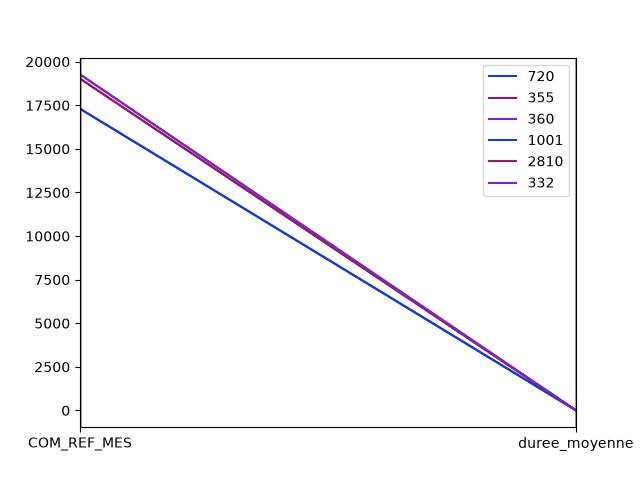
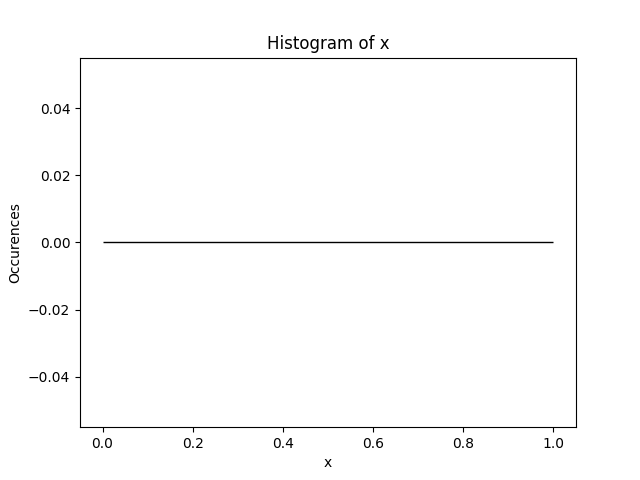
add : documentation, fix : getqueries

diff --git a/pythonScripts/choosenGraph.py b/pythonScripts/choosenGraph.py
@@ -1,3 +1,9 @@
+"""CLI: fetch two SQL query results and draw the requested graph type.
+
+Usage:
+    python choosenGraph.py <query1> <query2> <graph_name> <list_of_graphs>
+"""
+
 import sys
 import os
 current_folder = os.path.dirname(os.path.abspath(__file__))
@@ -15,22 +21,34 @@ from radarChart import draw_radarchart
 from parallelCoordinates import draw_parallel_coordinates
 from scatterPlot import draw_scatterplot
 
+
 def strip_accents(s):
-   return ''.join(c for c in unicodedata.normalize('NFD', s)
-                  if unicodedata.category(c) != 'Mn')
+    """Remove accents from a string (e.g. "étoile" -> "etoile")."""
+    return ''.join(c for c in unicodedata.normalize('NFD', s)
+                   if unicodedata.category(c) != 'Mn')
+
 
 def choose():
-    query1 = sys.argv[1]        
-    query2 = sys.argv[2]        
+    """Read CLI args, query the database, and call the matching graph function.
+
+    Args (from sys.argv): query1, query2 (SQL queries for X1/X2), and
+    graph_name (matched against keywords like "boite", "radar",
+    "scatter", "hist", "reg", "parall" to pick the drawing function).
+
+    Note: DB credentials are hardcoded below — consider moving them
+    to environment variables instead.
+    """
+    query1 = sys.argv[1]
+    query2 = sys.argv[2]
     raw_graph_name = sys.argv[3]
 
     graphName = strip_accents(raw_graph_name).lower().strip()
 
     server = "info-mssql-etd"
-    user = "ETD" 
+    user = "ETD"
     psw = "ETD"
     database = "AquiAlertsTest"
-    
+
     engine = sa.create_engine(f'mssql+pymssql://{user}:{psw}@{server}/{database}')
 
     with engine.connect() as conn:
@@ -51,6 +69,7 @@ def choose():
         draw_parallel_coordinates(X1, X2)
     else:
         print(f"Aucun graphe de ce nom matching: '{raw_graph_name}'", file=sys.stderr)
+
 
 if __name__ == "__main__":
     if len(sys.argv) < 5:

diff --git a/pythonScripts/radarChart.py b/pythonScripts/radarChart.py
@@ -1,24 +1,27 @@
+"""Draws a radar chart comparing two data series and saves to disk."""
+
 import plotly.express as px
 import pandas as pd
 
+
 def draw_radarchart(X1, X2):
+    """Draw a radar chart comparing X1 and X2 and save to img/Graph.png."""
     col_axe = X1.columns[0]
     col_valeurs = X1.columns[1]
 
     df_x1 = pd.DataFrame({
-    'r': X1[col_valeurs],
-    'theta': X1[col_axe],
-    'Nom du modèle': 'Série X1'
+        'r': X1[col_valeurs],
+        'theta': X1[col_axe],
+        'Nom du modèle': 'Série X1'
     })
 
     df_x2 = pd.DataFrame({
         'r': X2[col_valeurs],
         'theta': X2[col_axe],
         'Nom du modèle': 'Série X2'
-        })
+    })
 
-    
     df_total = pd.concat([df_x1, df_x2], ignore_index=True)
-       
+
     fig = px.line_polar(df_total, r='r', theta='theta', color='Nom du modèle', line_close=True)
     fig.write_image('img/Graph.png')

diff --git a/pythonScripts/parallelCoordinates.py b/pythonScripts/parallelCoordinates.py
@@ -1,7 +1,11 @@
+"""Draws a parallel coordinates plot for two data series and saves to disk."""
+
 from pandas.plotting import parallel_coordinates
 import matplotlib.pyplot as plt
 
-def draw_parallel_coordinates(X1,X2):
+
+def draw_parallel_coordinates(X1, X2):
+    """Overlay parallel coordinates plots of X1 and X2 and save to img/Graph.png."""
     plt.figure()
     parallel_coordinates(X1, X1.columns[1])
     parallel_coordinates(X2, X2.columns[1])

diff --git a/pythonScripts/scatterPlot.py b/pythonScripts/scatterPlot.py
@@ -1,10 +1,13 @@
+"""Draws side-by-side scatter plots for two data series and saves to disk."""
+
 import matplotlib.pyplot as plt
 import pandas as pd
 
-def draw_scatterplot(X1, X2):
 
+def draw_scatterplot(X1, X2):
+    """Draw scatter plots of X1 and X2 side by side and save to img/Graph.png."""
     fig, axes = plt.subplots(1, 2, figsize=(12, 5))
-    
+
     Xs = [X1, X2]
     for i, X in enumerate(Xs):
 

diff --git a/pythonScripts/boxplot.py b/pythonScripts/boxplot.py
@@ -1,7 +1,11 @@
+"""Draws side-by-side boxplots for two data series and saves to disk."""
+
 import matplotlib.pyplot as plt
 import seaborn as sns
 
+
 def draw_boxplot(X1, X2):
+    """Draw boxplots of X1 and X2 side by side and save to img/Graph.png."""
     val_col1 = X1.columns[1]
     val_col2 = X2.columns[1]
     fig, axes = plt.subplots(1, 2, figsize=(12, 5))

diff --git a/pythonScripts/dataSetCollection.py b/pythonScripts/dataSetCollection.py
@@ -7,9 +7,9 @@ warnings.filterwarnings('ignore', category=UserWarning)
 
 def get_mesure_types_collection():
     SERVER = 'info-mssql-etd'
-    USER = 'ETD'
-    PASSWORD = 'ETD'
-    DATABASE = 'AquiAlertsTest'
+    USER = 'etd11'
+    PASSWORD = '6db7478e'
+    DATABASE = 'AquiAlerts'
 
     try:
         conn = ps.connect(SERVER, USER, PASSWORD, DATABASE)     

diff --git a/pythonScripts/importMain.py b/pythonScripts/importMain.py
@@ -79,8 +79,8 @@ def fileTreatment(files, conn):
 
 def connexion():    
     server   = "info-mssql-etd"
-    user     = "ETD"
-    psw      = "ETD"
+    user     = "etd11"
+    psw      = "6db7478e"
     database = "AquiAlertsTest"
     engine = sa.create_engine(f'mssql+pymssql://{user}:{psw}@{server}/{database}')
     return engine
